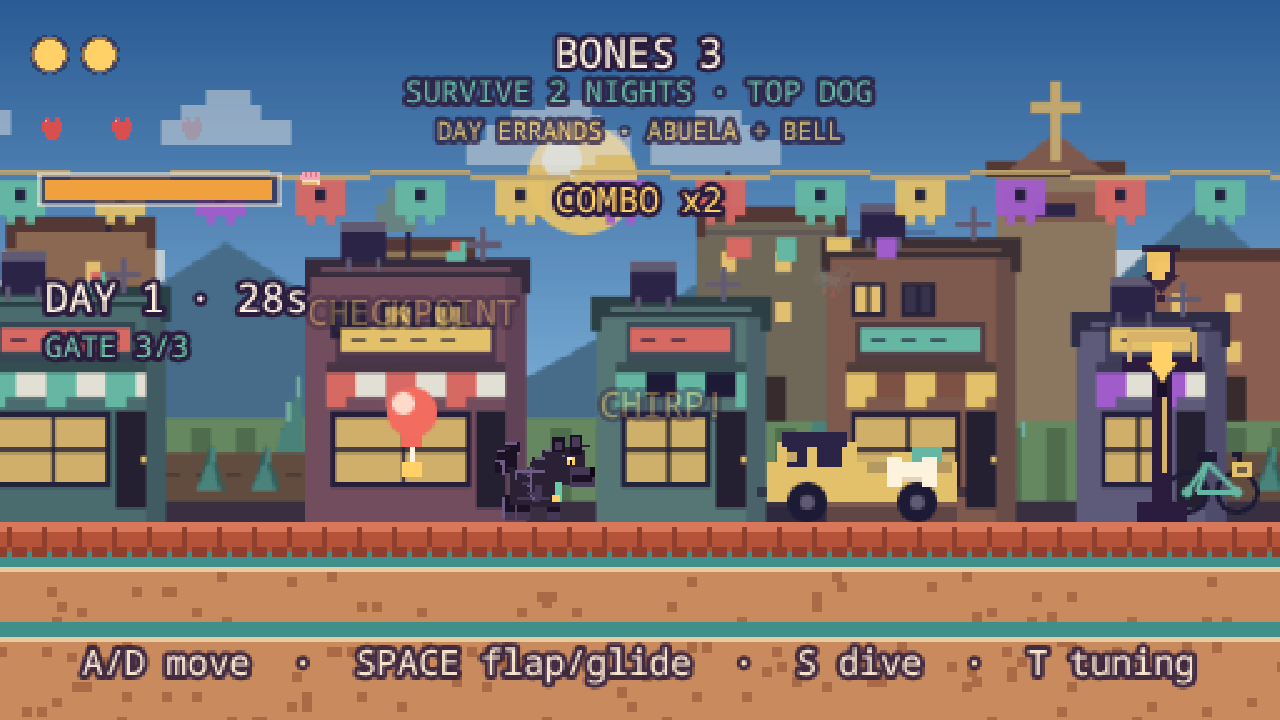
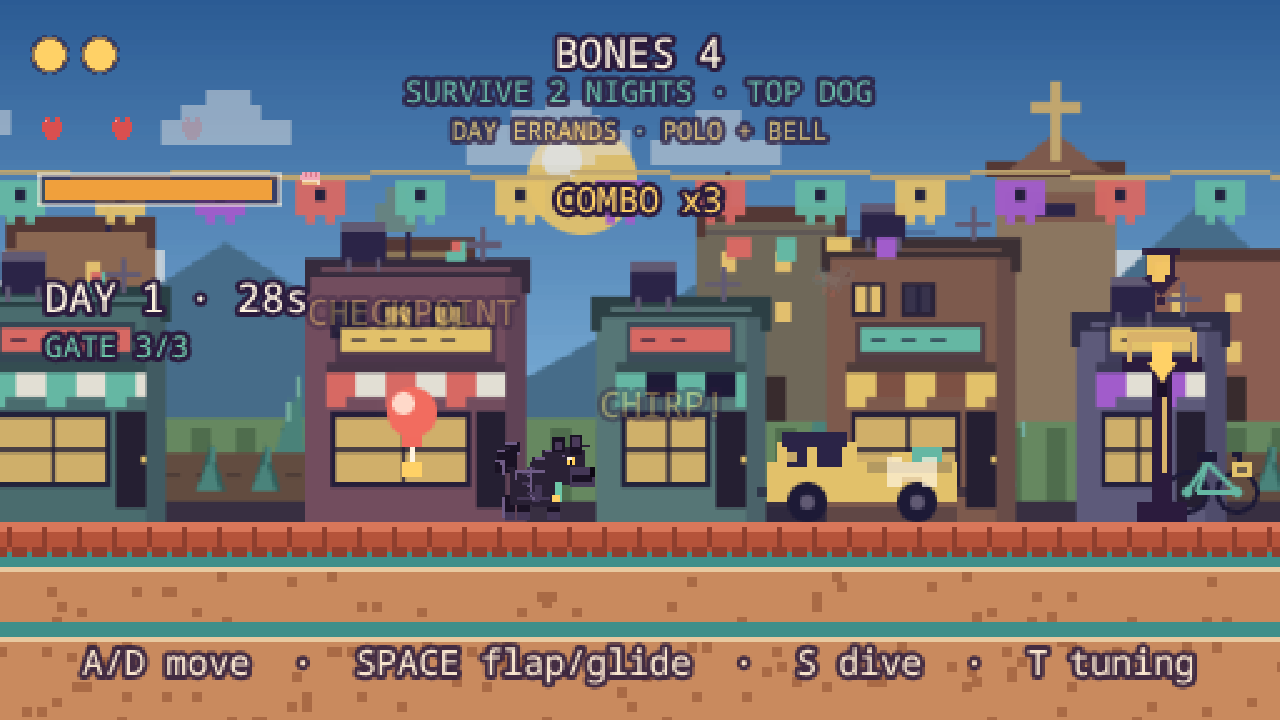
Replace Abuela with Polo, the adult neighbor

diff --git a/src/scenes/Level1.js b/src/scenes/Level1.js
@@ -169,7 +169,7 @@ const LEDGE_FOODS = [
 const TACO_CARTS = [640, 3500];
 const TRASH_SPOTS = [960, 3820];
 const GATE_X = 160;
-const ABUELA_X = 135;
+const POLO_X = 135;
 const CHIHUAHUA_X = 88;
 const BELL_X = 2450;
 
@@ -252,7 +252,7 @@ export default class Level1 extends Phaser.Scene {
     this.rivalsSubdued = 0;
     this.score = 0;
     this.rank = 'D';
-    this.abuelaGift = true;
+    this.poloGift = true;
     this.bellRung = false;
     this.nextAlarm = 0;
     this.nextAllyBark = 0;
@@ -809,8 +809,8 @@ export default class Level1 extends Phaser.Scene {
   }
 
   createAllyNpcs() {
-    this.abuela = this.add
-      .image(ABUELA_X * S, 600 * S, 'abuela')
+    this.polo = this.add
+      .image(POLO_X * S, 600 * S, 'polo')
       .setOrigin(0.5, 1)
       .setDepth(3);
 
@@ -824,8 +824,19 @@ export default class Level1 extends Phaser.Scene {
       .setOrigin(0.5, 1)
       .setDepth(3);
 
-    this.abuelaIcon = this.add
-      .image(ABUELA_X * S, 600 * S - 38 * S, 'concha')
+    this.poloLabel = this.add
+      .text(POLO_X * S, 600 * S - 31 * S, 'POLO', {
+        fontFamily: 'monospace',
+        fontSize: 5 * S,
+        color: '#fff4e0',
+        stroke: '#1b1029',
+        strokeThickness: 2 * S,
+      })
+      .setOrigin(0.5, 1)
+      .setDepth(4);
+
+    this.poloIcon = this.add
+      .image(POLO_X * S, 600 * S - 48 * S, 'concha')
       .setScale(0.6)
       .setDepth(4)
       .setAlpha(0.9);
@@ -836,7 +847,7 @@ export default class Level1 extends Phaser.Scene {
       .setAlpha(0.9);
 
     this.tweens.add({
-      targets: [this.abuelaIcon, this.bellIcon],
+      targets: [this.poloIcon, this.bellIcon],
       y: '-=4',
       duration: 700,
       yoyo: true,
@@ -1017,15 +1028,15 @@ export default class Level1 extends Phaser.Scene {
     if (this.phase !== 'day') return;
 
     if (
-      this.abuelaGift &&
+      this.poloGift &&
       Phaser.Math.Distance.Between(
         this.dog.x,
         this.dog.y,
-        this.abuela.x,
-        this.abuela.y - 10 * S,
+        this.polo.x,
+        this.polo.y - 10 * S,
       ) < 56 * S
     ) {
-      this.giveAbuelaGift();
+      this.givePoloGift();
     }
 
     if (
@@ -1041,14 +1052,14 @@ export default class Level1 extends Phaser.Scene {
     }
   }
 
-  giveAbuelaGift() {
-    this.abuelaGift = false;
-    this.abuelaIcon.setVisible(false);
-    this.spawnFoodAt(this.abuela.x + 8 * S, 585 * S);
+  givePoloGift() {
+    this.poloGift = false;
+    this.poloIcon.setVisible(false);
+    this.spawnFoodAt(this.polo.x + 8 * S, 585 * S);
     sfx.eat();
     this.floatText(
-      this.abuela.x,
-      this.abuela.y - 38 * S,
+      this.polo.x,
+      this.polo.y - 38 * S,
       t('float.gift'),
       '#ffd166',
     );
@@ -1602,7 +1613,7 @@ export default class Level1 extends Phaser.Scene {
     this.goalText.setText(text).setColor(color).setAlpha(alpha);
 
     this.questText?.setVisible(
-      this.phase === 'day' && (this.abuelaGift || !this.bellRung),
+      this.phase === 'day' && (this.poloGift || !this.bellRung),
     );
   }
 
@@ -1670,7 +1681,7 @@ export default class Level1 extends Phaser.Scene {
     this.nextWave = 2;
     this.gateRusherSpawned = false;
 
-    this.abuelaIcon?.setVisible(false);
+    this.poloIcon?.setVisible(false);
     this.bellIcon?.setVisible(false);
 
     this.tweens.add({
@@ -1719,9 +1730,9 @@ export default class Level1 extends Phaser.Scene {
     this.porchGate?.clearTint().setAlpha(1);
     this.gateSign?.setVisible(true);
 
-    this.abuelaGift = true;
+    this.poloGift = true;
     this.bellRung = false;
-    this.abuelaIcon?.setVisible(true);
+    this.poloIcon?.setVisible(true);
     this.bellIcon?.setVisible(true);
 
     this.tweens.add({
@@ -2469,7 +2480,8 @@ export default class Level1 extends Phaser.Scene {
     this.hungerBar.setVisible(false);
     this.phaseText.setVisible(false);
     this.gateText?.setVisible(false);
-    this.abuelaIcon?.setVisible(false);
+    this.poloIcon?.setVisible(false);
+    this.poloLabel?.setVisible(false);
     this.bellIcon?.setVisible(false);
     this.alphaCrown?.setVisible(false);
     this.gui?.hide();

diff --git a/src/art.js b/src/art.js
@@ -77,7 +77,7 @@ export function buildTextures(scene) {
   makeBike(scene, 'bikeCoral', 0xf26b5e);
   makeGate(scene);
   makeTacoCart(scene);
-  makeAbuela(scene);
+  makePolo(scene);
   makeChihuahua(scene);
   makeBell(scene);
   makeBellPost(scene);
@@ -809,36 +809,53 @@ function makeTacoCart(scene) {
   g.destroy();
 }
 
-function makeAbuela(scene) {
+function makePolo(scene) {
   const g = gfx(scene);
   const W = 16;
   const H = 28;
 
-  // skirt / shawl
-  g.fillStyle(0x6f5c86, 1);
-  g.fillRect(4, 14, 8, 12);
-  g.fillStyle(0x4a3550, 1);
-  g.fillRect(3, 25, 10, 3);
-  g.fillStyle(0xb45cd6, 1);
-  g.fillRect(3, 13, 10, 3);
-  g.fillStyle(0xffcf6a, 1);
-  g.fillRect(7, 15, 2, 2);
+  // shoes and jeans
+  g.fillStyle(0x1b1029, 1);
+  g.fillRect(3, 25, 4, 3);
+  g.fillRect(9, 25, 4, 3);
+  g.fillStyle(0x2f5f6a, 1);
+  g.fillRect(4, 16, 8, 10);
+  g.fillStyle(0x24484f, 1);
+  g.fillRect(8, 18, 1, 7);
+  g.fillStyle(0xffd166, 1);
+  g.fillRect(4, 16, 8, 1);
 
-  // face, hair, glasses
+  // shirt / broad shoulders
+  g.fillStyle(0xe85a4f, 1);
+  g.fillRect(3, 9, 10, 8);
   g.fillStyle(0xd9a47a, 1);
-  g.fillRect(5, 5, 6, 8);
-  g.fillStyle(0xd9d0dc, 1);
-  g.fillRect(4, 3, 8, 3);
-  g.fillRect(3, 5, 2, 5);
-  g.fillRect(11, 5, 2, 5);
-  g.fillStyle(0x2b1b3d, 1);
-  g.fillRect(6, 8, 1, 1);
-  g.fillRect(9, 8, 1, 1);
-  g.fillRect(7, 9, 2, 1);
-  g.fillStyle(0xf26b5e, 1);
-  g.fillRect(7, 11, 3, 1);
+  g.fillRect(2, 10, 2, 7);
+  g.fillRect(12, 10, 2, 7);
+  g.fillStyle(0xfff4e0, 0.5);
+  g.fillRect(7, 11, 2, 4);
 
-  g.generateTexture('abuela', W, H);
+  // neck and head
+  g.fillStyle(0xd9a47a, 1);
+  g.fillRect(5, 4, 6, 6);
+  g.fillStyle(0x2b1b3d, 1);
+  g.fillRect(4, 2, 8, 3);
+  g.fillRect(4, 4, 1, 3);
+  g.fillRect(11, 4, 1, 3);
+  // short beard + moustache
+  g.fillRect(5, 8, 6, 2);
+  g.fillRect(6, 10, 4, 1);
+  // eyes and smile
+  g.fillStyle(0x1b1029, 1);
+  g.fillRect(6, 6, 1, 1);
+  g.fillRect(9, 6, 1, 1);
+  g.fillStyle(0xb5533a, 1);
+  g.fillRect(7, 10, 2, 1);
+
+  // coral chest pocket / little apron line
+  g.fillStyle(0xffd166, 1);
+  g.fillRect(10, 11, 2, 1);
+
+  g.generateTexture('polo', W, H);
   g.destroy();
 }
 

diff --git a/src/i18n.js b/src/i18n.js
@@ -24,7 +24,7 @@ const strings = {
     'goal.dawn': 'DAWN IN {seconds}s',
     'goal.dawnNow': 'DAWN',
     'goal.alpha': 'TOP DOG · {hits}/3',
-    'quest.day': 'DAY ERRANDS · ABUELA + BELL',
+    'quest.day': 'DAY ERRANDS · POLO + BELL',
     'alpha.title': 'THE TOP DOG',
     'alpha.cleared': 'TOP DOG DOWN',
     'gate.broken': 'GATE DOWN — PORCH OPEN',
@@ -33,7 +33,7 @@ const strings = {
     'float.crash': 'CRASH!',
     'float.alarm': 'ALARM!',
     'float.stolen': 'STOLEN!',
-    'float.gift': 'ABUELA',
+    'float.gift': 'POLO',
     'float.bell': 'DONG!',
     'float.hiss': 'HISS!',
     'float.chirp': 'CHIRP!',
@@ -99,7 +99,7 @@ const strings = {
     'goal.dawn': 'AMANECE EN {seconds}s',
     'goal.dawnNow': 'AMANECE',
     'goal.alpha': 'PERRO JEFE · {hits}/3',
-    'quest.day': 'RECADOS · ABUELA + CAMPANA',
+    'quest.day': 'RECADOS · POLO + CAMPANA',
     'alpha.title': 'EL PERRO JEFE',
     'alpha.cleared': 'PERRO JEFE VENCIDO',
     'gate.broken': 'PORTÓN CAÍDO — CASA ABIERTA',
@@ -108,7 +108,7 @@ const strings = {
     'float.crash': '¡CRASH!',
     'float.alarm': '¡ALARMA!',
     'float.stolen': '¡ROBADO!',
-    'float.gift': 'ABUELA',
+    'float.gift': 'POLO',
     'float.bell': '¡DONG!',
     'float.hiss': '¡FSSS!',
     'float.chirp': '¡PÍO!',

diff --git a/README.md b/README.md
@@ -50,7 +50,7 @@ The contact sheet shows the English UI; the game itself now starts in Spanish.
 - **The porch:** Bonjo's house at the start of the street is a safe zone.
   An open **CASA gateway** and painted threshold mark the line. Normal rivals
   stop there; gate rushers try to chew the gate down. If it breaks, the porch is
-  open until dawn. Abuela tosses a concha each day, the bell grants another,
+  open until dawn. Polo tosses a concha each day, the bell grants another,
   and the chihuahua barks warnings.
 - **Survival:** Bonjo has **3 hearts** and a **hunger bar**. Conchas restore
   hunger; an empty bar starts costing health. Survive two nights; the final
@@ -115,7 +115,7 @@ On a desktop you can press **V** to show the touch buttons for testing.
 Land on a rainbow-striped **awning** to bounce; hit a **piñata** three times to
 burst it; **dive** a **rival dog** to make it drop a bone and flee. Eat
 **conchas** to keep the hunger bar up. Use taco carts, loot trash cans, knock
-over bikes and trip the marked car alarm. Visit Abuela and ring the bell during
+over bikes and trip the marked car alarm. Visit Polo and ring the bell during
 the day. Survive two nights and repel the **top dog**; bones, combo and a clean
 run feed your score and rank.
 
@@ -182,7 +182,7 @@ there to make them permanent.
 - **One-way fire escapes and laundry lines** with high bones/conchas
 - **Interactive street props** — taco carts, lootable trash, knockable bikes, car alarm stuns
 - **Porch gate defense** with gate health and a compromised safe zone if it breaks
-- **Abuela's daily concha**, bell blessing, and chihuahua warnings
+- **Polo's daily concha**, bell blessing, and chihuahua warnings
 - **Scoring**: bone combo, subdued rivals, no-hit and time bonuses; S–D rank on the end screen
 - **Squirrels** that steal bones; two crows
 - **Piñatas** (3 hits → bones + a concha) and **bouncing market awnings**
@@ -294,7 +294,7 @@ files):
 | `hydrant` / `trashcan` / `planter` / `streetlamp` | 9×13 – 12×58 | street dressing |
 | `gate` | 36×30 | porch gate |
 | `tacocart` | 44×30 | hunger refill |
-| `abuela` / `chihuahua` | 16×28 / 14×14 | day NPC / warning ally |
+| `polo` / `chihuahua` | 16×28 / 14×14 | day NPC / warning ally |
 | `bell`, `bellpost` | 14×14, 18×42 | day blessing |
 | `crown` | 14×9 | top-dog marker |
 | `agave`, `agaveBloom` | 26×26, 26×38 | blue-green street/field plants |
@@ -314,7 +314,7 @@ files):
 2. Add **wave telegraphs** at the porch: door slams, gate lanterns, a longer
    bravo bark before the first dog.
 3. More **east-block landmarks**: a mercado interior, a basketball court,
-   rooftop murals, and a second Abuela window.
+   rooftop murals, and a second Polo window.
 4. Build **Las Orillas** — the agricultural edge: irrigation canals, agave
    fields, crop rows, farm dogs.
 5. Camera look-down while diving; landing squash; a proper bark on flap.

diff --git a/DESIGN.md b/DESIGN.md
@@ -174,7 +174,7 @@ S–D rank.
 
 ### Street props and errands
 Taco carts restore hunger; trash cans burst into bones; bicycles can be knocked
-over; the marked parked car's alarm stuns nearby rivals. During the day Abuela
+over; the marked parked car's alarm stuns nearby rivals. During the day Polo
 tosses a concha, the bell grants another, and the chihuahua barks warnings at
 night. These are all optional, but they reward learning the block.
 
@@ -204,7 +204,7 @@ behind an open CASA gateway with a standable roof platform. Rivals won't enter
 the first 160 design px of the block, so the porch is a safe corner. The gateway
 and painted threshold mark that line: Bonjo walks through the open leaves,
 normal rivals stop at the threshold, and gate rushers chew the gate down. If it
-breaks the safe zone is open until dawn repairs it. Abuela and the chihuahua
+breaks the safe zone is open until dawn repairs it. Polo and the chihuahua
 live here. Dawn drops a concha by the door. The street is the arena; the porch
 is where you catch your breath.
 
@@ -344,7 +344,7 @@ Music later: one loop per barrio, low-passed, with marimba/requinto colors.
 - **Roles:** fast dogs, bone thieves, brutes, gate rushers, crowned top dog
 - **Level:** two blocks, one-way fire escapes/laundry lines, second checkpoint, interactive taco carts/trash/bikes/car alarm
 - **Defense:** porch gate with health and a compromised safe zone
-- **NPCs/quests:** Abuela's concha, bell blessing, chihuahua warnings
+- **NPCs/quests:** Polo's concha, bell blessing, chihuahua warnings
 - **Scoring:** bone combo, rivals, no-hit/time bonuses, S–D rank
 - Rival dogs (bark/chase/subdue), squirrels (bone thieves), two crows
 - Ambient cats, birds and a rooster; fenced level ends
